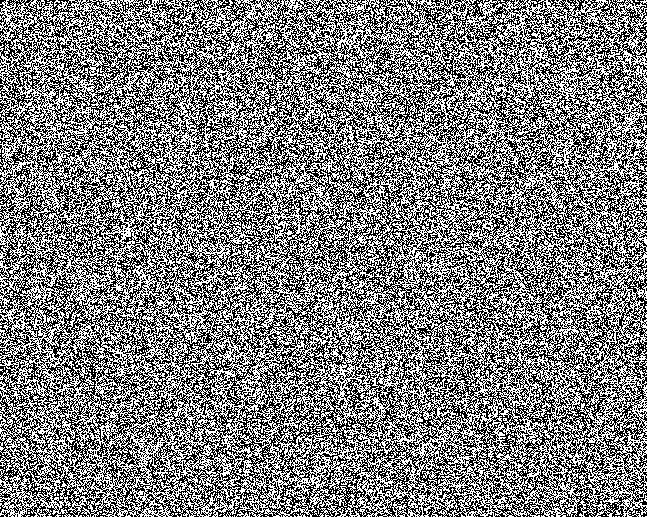
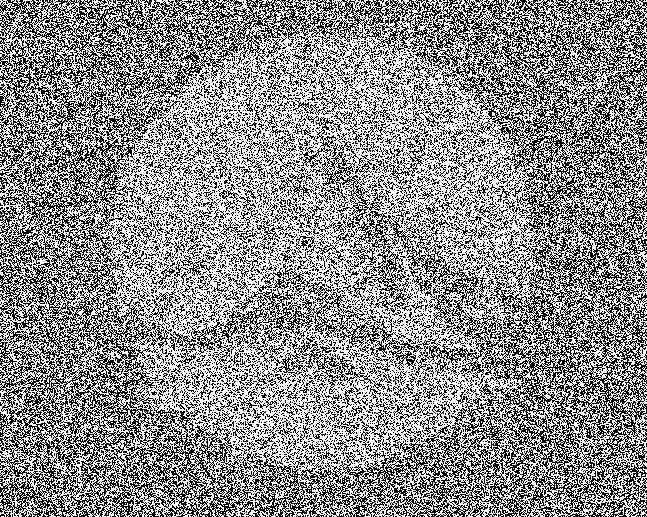
increase hiding within image
images were made more elegant by distributing white pixels.

diff --git a/main.py b/main.py
@@ -3,72 +3,49 @@ import numpy as np
 import random
 
 def create_shares_3_3(img_binary):
-    """
-    (3,3) Görsel Şifreleme için üç pay (share) oluşturur.
-    Her piksel, rastgele mantıksal işlemlerle paylara bölünür.
-    """
     h, w = img_binary.shape
     shares = [np.zeros((h, w), dtype=np.uint8) for _ in range(3)]
 
     for i in range(h):
         for j in range(w):
             pixel = img_binary[i, j]
-            if pixel == 0:  # Siyah piksel
-                # Rastgele iki bit üret ve XOR ile üçüncü bit'i oluştur
-                bit1 = random.randint(0, 1)
-                bit2 = random.randint(0, 1)
-                bit3 = bit1 ^ bit2  # XOR işlemi
+            if pixel == 0:  # Siyah piksel (gizli)
+                pattern = random.choice([[0, 1, 1], [1, 0, 1], [1, 1, 0]])
+            else:  # Beyaz piksel (gizli değil)
+                pattern = [random.randint(0, 1) for _ in range(3)]  # Beyaz için rastgele deseni daha karışık yap
 
-                # Payları rastgele karıştırılmış siyah/beyaz piksellere çevir
-                shares[0][i, j] = random.choice([bit1, 1 - bit1]) * 255
-                shares[1][i, j] = random.choice([bit2, 1 - bit2]) * 255
-                shares[2][i, j] = random.choice([bit3, 1 - bit3]) * 255
-            else:  # Beyaz piksel
-                # Beyaz piksel için paylar rastgele olmalı ama XOR ile doğru çıkmalı
-                bit1 = random.randint(0, 1)
-                bit2 = random.randint(0, 1)
-                bit3 = bit1 ^ bit2  # XOR işlemi
-
-                shares[0][i, j] = bit1 * 255
-                shares[1][i, j] = bit2 * 255
-                shares[2][i, j] = bit3 * 255
+            for k in range(3):
+                shares[k][i, j] = pattern[k] * 255
+    
     return shares
 
 def combine_shares_3_3(shares):
-    """
-    Üç payı birleştirerek orijinal görüntüyü geri oluşturur.
-    XOR işlemi kullanılır.
-    """
-    combined = np.bitwise_xor(np.bitwise_xor(shares[0], shares[1]), shares[2])
+    combined = np.zeros_like(shares[0])
+
+    for i in range(3):
+        combined = np.bitwise_or(combined, shares[i])
+    
     return combined
 
-# Ana program
 if __name__ == "__main__":
-    # Giriş görüntüsünü yükle ve siyah-beyaz (binary) yap
-    image_path = 'image.png'  # Görüntü yolu
+    image_path = 'image.png'
     img_gray = cv2.imread(image_path, cv2.IMREAD_GRAYSCALE)
 
     if img_gray is None:
-        print("Resim yüklenemedi! Dosya yolunu kontrol edin.")
+        print("Resim yuklenemedi! Dosya yolunu kontrol edin.")
         exit()
 
-    # Görüntüyü siyah-beyaz formata dönüştür
     _, img_binary = cv2.threshold(img_gray, 128, 255, cv2.THRESH_BINARY)
-
-    # (3,3) payları oluştur
     shares = create_shares_3_3(img_binary)
 
-    # Payları kaydet
     for idx, share in enumerate(shares):
         cv2.imwrite(f"share_{idx+1}.png", share)
 
-    print("Paylar başarıyla oluşturuldu ve kaydedildi.")
+    print("Paylar basariyla olusturuldu ve kaydedildi.")
 
-    # Payları birleştir ve sonucu göster
     combined_image = combine_shares_3_3(shares)
     cv2.imwrite("combined.png", combined_image)
 
-    # Payları ve birleşmiş görüntüyü göster
     for idx, share in enumerate(shares):
         cv2.imshow(f"Share {idx+1}", share)
     cv2.imshow("Combined Image", combined_image)
